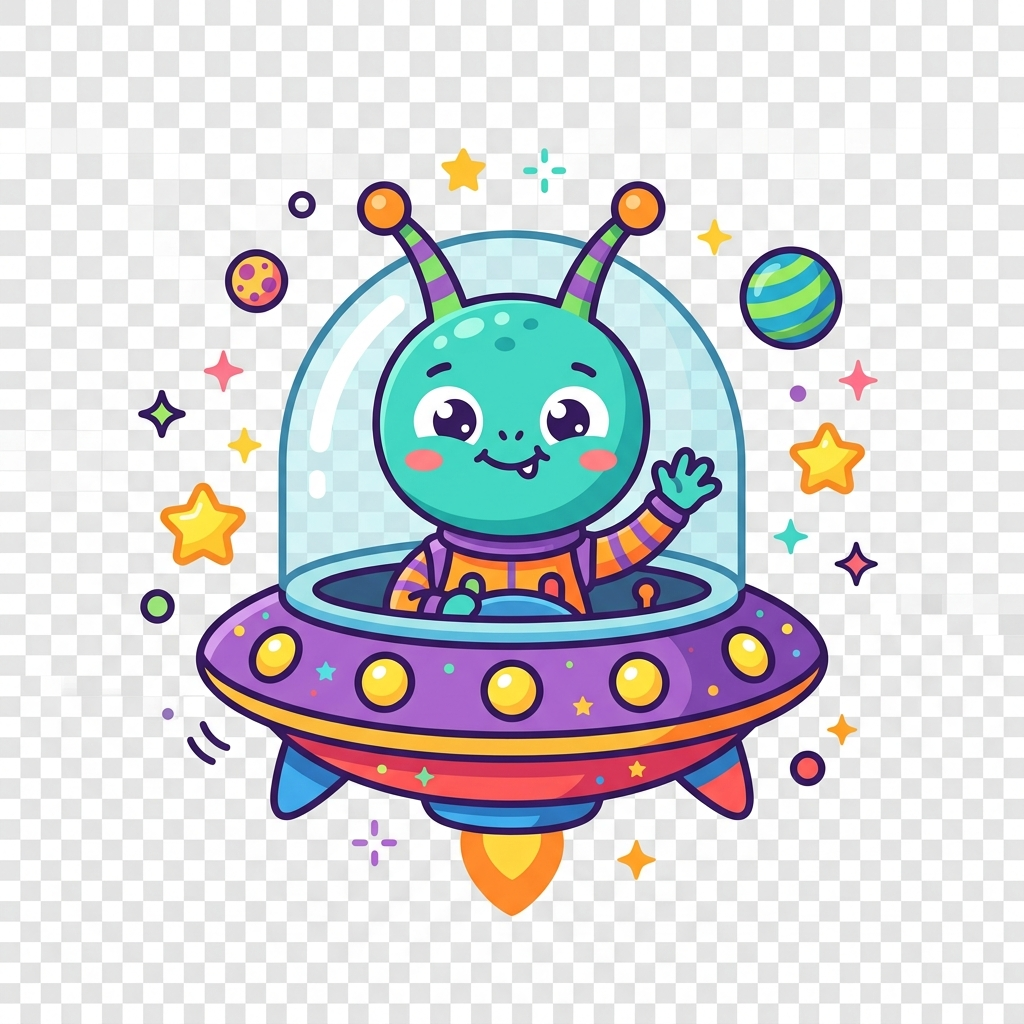
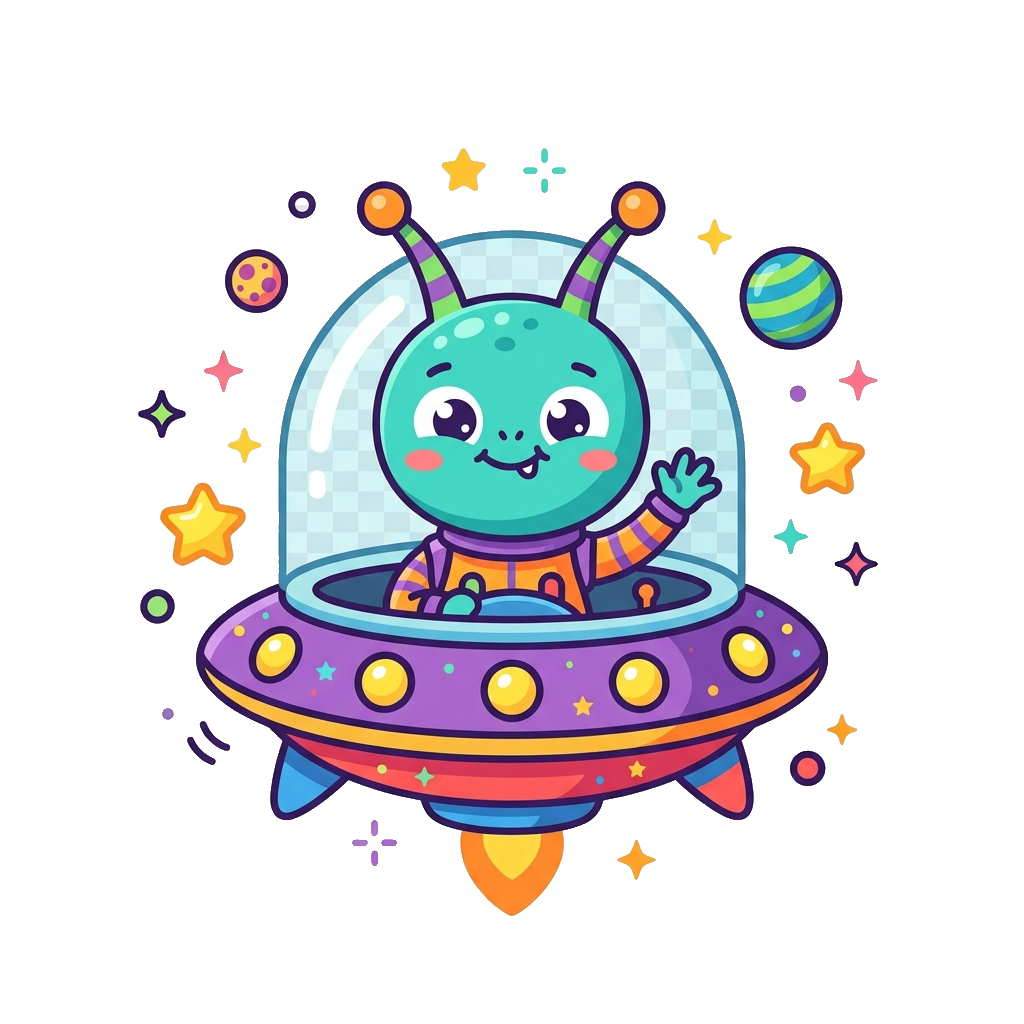
Update game audio flow and space defender assets

diff --git a/assets/js/games/game-shell.js b/assets/js/games/game-shell.js
@@ -57,7 +57,8 @@ class GameShell {
       speak: (text) => this.speak(text),
       characterAnimation: (type) => this.characterAnimation(type),
       saveSession: (data) => this.saveSession(data),
-      goToNextGame: (nextGameType) => this.goToNextGame(nextGameType)
+      goToNextGame: (nextGameType) => this.goToNextGame(nextGameType),
+      randomEncouragement: () => this.randomEncouragement()
     };
   }
 
@@ -319,6 +320,27 @@ class GameShell {
         resolve();
       }, { once: true });
     });
+  }
+
+  /* ─────────────────────────────────────────────────────────
+     Random Encouragement — pulls from full recorded clip pool
+     ───────────────────────────────────────────────────────── */
+
+  randomEncouragement() {
+    const pool = [
+      'you got it',
+      'you found it',
+      'great job',
+      'good job',
+      'yay',
+      'impressive',
+      'i cant believe it',
+      'laugh',
+      'wow',
+      'keep it up'
+    ];
+    const key = pool[Math.floor(Math.random() * pool.length)];
+    this.speak(key);
   }
 
   /* ─────────────────────────────────────────────────────────

diff --git a/assets/js/audio-manager.js b/assets/js/audio-manager.js
@@ -365,6 +365,7 @@
   }
 
   /* ── Theme song ──────────────────────────────────────────── */
+  const THEME_POS_KEY = 'rk_theme_pos';
   let themeAudio = null;
   let themeStarted = false;
 
@@ -380,6 +381,14 @@
   function startTheme() {
     if (themeStarted) return;
     initTheme();
+
+    // Restore position from previous page so song plays continuously
+    const savedPos = parseFloat(sessionStorage.getItem(THEME_POS_KEY) || '0');
+    if (savedPos > 0) {
+      themeAudio.currentTime = savedPos;
+      sessionStorage.removeItem(THEME_POS_KEY);
+    }
+
     themeAudio.play().catch(() => {
       // Autoplay blocked — will start on first user interaction
       const startOnce = () => {
@@ -399,6 +408,13 @@
     themeAudio.pause();
     themeAudio.currentTime = 0;
   }
+
+  // Save theme position before navigating away so it resumes on next page
+  window.addEventListener('beforeunload', () => {
+    if (themeAudio && !themeAudio.paused && themeAudio.currentTime > 0) {
+      sessionStorage.setItem(THEME_POS_KEY, String(themeAudio.currentTime));
+    }
+  });
 
   /* ── Voice playback ──────────────────────────────────────── */
   let currentVoice = null;

diff --git a/assets/js/onboarding.js b/assets/js/onboarding.js
@@ -183,11 +183,8 @@ function renderSetupForm() {
                     .forEach(c => c.classList.remove('selected'));
             card.classList.add('selected');
             userChoices.character = char.name;
-            // Play a random excitement clip on character pick
-            if (window.RKAudio) {
-                const picks = ['yay', 'you got it', 'wow'];
-                RKAudio.speak(picks[Math.floor(Math.random() * picks.length)]);
-            }
+            // Say "welcome to your world" when a character is chosen
+            if (window.RKAudio) RKAudio.speak('welcome');
         });
 
         grid.appendChild(card);
@@ -241,13 +238,7 @@ function renderOptionButtons(step) {
             btn.classList.add('selected');
             userChoices[step.id] = label;
 
-            // Play a short excitement clip on every option pick
-            if (window.RKAudio) {
-                const picks = ['great job', 'yay', 'you got it', 'impressive'];
-                RKAudio.speak(picks[Math.floor(Math.random() * picks.length)]);
-            }
-
-            // Auto-advance to next step after selection
+            // Auto-advance to next step after selection (music only — no voice clip)
             setTimeout(() => advanceFromOptionStep(step), 500);
         });
 

diff --git a/assets/js/games/feed-by-sound-game.js b/assets/js/games/feed-by-sound-game.js
@@ -387,7 +387,7 @@ class FeedBySoundGame {
       }
     }
 
-    this.context.speak(this.correctRemaining > 0 ? 'you got it' : 'yay');
+    this.context.randomEncouragement();
 
     if (this.correctRemaining === 0) {
       setTimeout(() => this._completeRound(), 800);
@@ -449,7 +449,7 @@ class FeedBySoundGame {
     const alien = document.getElementById('fbsAlienChar');
     if (alien) alien.classList.add('fbs-alien--happy');
 
-    this.context.speak('yay');
+    this.context.randomEncouragement();
 
     setTimeout(() => {
       this.currentRound++;
@@ -496,8 +496,7 @@ class FeedBySoundGame {
     const stars  = accuracy >= 0.9 ? 3 : accuracy >= 0.65 ? 2 : 1;
 
     // Celebration audio + character animation
-    const celebClips = ['yay', 'great job', 'impressive'];
-    this.context.speak(celebClips[stars - 1] || 'yay');
+    this.context.randomEncouragement();
     this.context.characterAnimation('celebrate');
 
     const nextGameType = typeof window.getNextGameRecommendation === 'function'

diff --git a/assets/js/games/color-sort-game.js b/assets/js/games/color-sort-game.js
@@ -394,9 +394,7 @@ class ColorSortGame {
 
       if (zoneEl) zoneEl.classList.add('matched');
       if (itemEl) itemEl.classList.add('correct');
-      const correctPhrases = ['you got it', 'you found it', 'great job', 'yay'];
-      const pick = correctPhrases[Math.floor(Math.random() * correctPhrases.length)];
-      this.context.speak(pick);
+      this.context.randomEncouragement();
       this.renderScore();
       this.renderProgress();
 
@@ -470,9 +468,8 @@ class ColorSortGame {
     const gameArea = document.getElementById('gameArea');
     const stars = Math.min(3, Math.round(accuracy * 3));
 
-    // Celebration audio — pick by star count
-    const celebClips = ['yay', 'impressive', 'great job'];
-    this.context.speak(celebClips[Math.min(stars, celebClips.length) - 1] || 'yay');
+    // Celebration audio — random from full pool
+    this.context.randomEncouragement();
     this.context.characterAnimation('celebrate');
 
     gameArea.innerHTML = `

diff --git a/assets/js/games/shape-recognition-game.js b/assets/js/games/shape-recognition-game.js
@@ -322,9 +322,7 @@ class ShapeRecognitionGame {
     if (isCorrect) {
       this.busy = true;
 
-      const correctPhrases = ['you got it', 'you found it', 'great job', 'yay'];
-      const pick = correctPhrases[Math.floor(Math.random() * correctPhrases.length)];
-      this.context.speak(pick);
+      this.context.randomEncouragement();
       this.context.characterAnimation('cheer');
 
       this.correctCount++;
@@ -404,9 +402,8 @@ class ShapeRecognitionGame {
     const gameArea = document.getElementById('gameArea');
     const stars = Math.min(3, Math.round(accuracy * 3));
 
-    // Celebration audio
-    const celebClips = ['yay', 'impressive', 'great job'];
-    this.context.speak(celebClips[Math.min(stars, celebClips.length) - 1] || 'yay');
+    // Celebration audio — random from full pool
+    this.context.randomEncouragement();
     this.context.characterAnimation('celebrate');
 
     gameArea.innerHTML = `

diff --git a/assets/js/games/abc-match-game.js b/assets/js/games/abc-match-game.js
@@ -285,7 +285,7 @@ class ABCMatchGame {
   _correctResponse(tileEl) {
     tileEl.classList.add('am-tile--correct');
     this._triggerChomp();
-    this.context.speak('you got it');
+    this.context.randomEncouragement();
 
     // Flying chip animation
     this._flyChipToTile(tileEl, () => {
@@ -390,8 +390,7 @@ class ABCMatchGame {
     const stars = accuracy >= 0.9 ? 3 : accuracy >= 0.65 ? 2 : 1;
 
     // Celebration audio + character animation
-    const celebClips = ['yay', 'great job', 'impressive'];
-    this.context.speak(celebClips[stars - 1] || 'yay');
+    this.context.randomEncouragement();
     this.context.characterAnimation('celebrate');
     const nextGameType = typeof window.getNextGameRecommendation === 'function'
       ? window.getNextGameRecommendation('abc-match', 'normal', accuracy)

diff --git a/assets/js/games/feed-alien-game.js b/assets/js/games/feed-alien-game.js
@@ -538,7 +538,7 @@ class FeedAlienGame {
 
     this.renderAlienHappy();
     this.updateDifficulty();
-    this.context.speak('perfect');
+    this.context.randomEncouragement();
     this.renderCelebration();
 
     setTimeout(() => {
@@ -646,8 +646,7 @@ class FeedAlienGame {
     const stars    = this.performance.accuracy >= 0.8 ? 3 : this.performance.accuracy >= 0.6 ? 2 : 1;
 
     // Celebration audio + character animation
-    const celebClips = ['yay', 'great job', 'impressive'];
-    this.context.speak(celebClips[stars - 1] || 'yay');
+    this.context.randomEncouragement();
     this.context.characterAnimation('celebrate');
     const nextGameType = typeof window.getNextGameRecommendation === 'function'
       ? window.getNextGameRecommendation('feed-alien', 'easy', this.performance.accuracy)

diff --git a/assets/js/games/space-defender-game.js b/assets/js/games/space-defender-game.js
@@ -43,6 +43,7 @@ class SpaceDefenderGame {
     this.enemyLowerBound = 84;
 
     this.keysDown = new Set();
+    this._lastLossSoundAt = 0;  // cooldown guard for loseLife audio
   }
 
   async startGame() {
@@ -523,7 +524,13 @@ class SpaceDefenderGame {
     const livesEls = document.querySelectorAll('.life');
     if (livesEls[this.lives]) livesEls[this.lives].classList.add('lost');
 
-    this.context.playSound('space-destroyed');
+    // Throttle audio so rapid multi-enemy breaches don't overlap (min 2.5s between plays)
+    const now = Date.now();
+    if (now - this._lastLossSoundAt > 2500) {
+      this.context.playSound('space-destroyed');
+      this._lastLossSoundAt = now;
+    }
+
     this.context.characterAnimation('nod');
 
     this.container.style.boxShadow = 'inset 0 0 50px red';

diff --git a/assets/js/games/number-line-game.js b/assets/js/games/number-line-game.js
@@ -273,7 +273,7 @@ class NumberLineGame {
 
   _handleCorrectPlacement() {
     this._triggerChomp();
-    this.context.speak('you got it');
+    this.context.randomEncouragement();
     this.activeGapIdx++;
 
     if (this.activeGapIdx >= this.gapPositions.length) {
@@ -349,8 +349,7 @@ class NumberLineGame {
     const stars = accuracy >= 0.9 ? 3 : accuracy >= 0.65 ? 2 : 1;
 
     // Celebration audio + character animation
-    const celebClips = ['yay', 'great job', 'impressive'];
-    this.context.speak(celebClips[stars - 1] || 'yay');
+    this.context.randomEncouragement();
     this.context.characterAnimation('celebrate');
     const nextGameType = typeof window.getNextGameRecommendation === 'function'
       ? window.getNextGameRecommendation('number-line', 'normal', accuracy)
